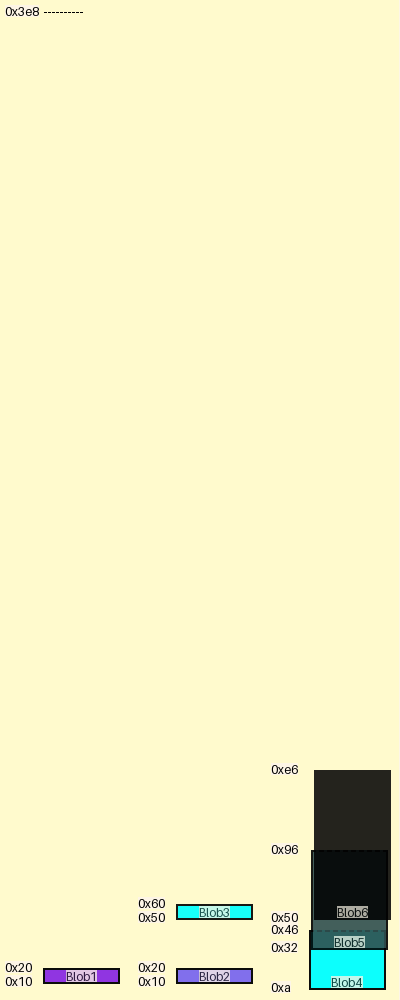
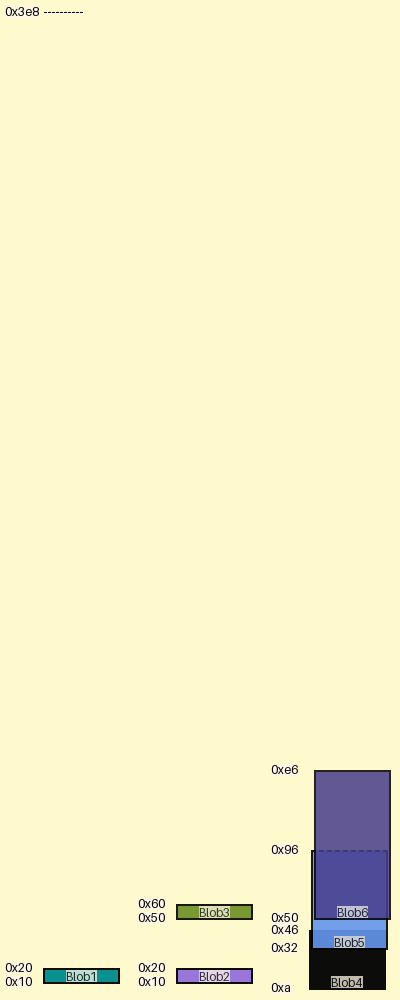
adjustred map name labels

Changed region(s): [[0.78, 0.775, 0.99, 0.992], [0.45, 0.899, 0.63, 0.93], [0.12, 0.961, 0.3, 0.992]]

diff --git a/tests/test_void_regions.py b/tests/test_void_regions.py
@@ -64,7 +64,7 @@ def test_void_region_default(setup):
 
         assert setup["image_cropped"].exists()
         found_size = PIL.Image.open(str(setup["image_cropped"])).size
-        assert found_size == (400, 540)
+        assert found_size == (400, 550)
 
 
 def test_void_region_uservalue_500(setup):
@@ -113,7 +113,7 @@ def test_void_region_uservalue_500(setup):
         # empty section between rootfs and dtb should be retained
         assert setup["image_cropped"].exists()
         found_size = PIL.Image.open(str(setup["image_cropped"])).size
-        assert found_size == (400, 540)
+        assert found_size == (400, 550)
 
 
 def test_void_region_uservalue_200(setup):
@@ -162,4 +162,4 @@ def test_void_region_uservalue_200(setup):
         # reduced void threshold, so empty section between rootfs and dtb should be voided, making the file smaller
         assert setup["image_cropped"].exists()
         found_size = PIL.Image.open(str(setup["image_cropped"])).size
-        assert found_size == (400, 328)
+        assert found_size == (400, 338)

diff --git a/mm/image.py b/mm/image.py
@@ -88,8 +88,8 @@ class MapNameImage(Image):
         txt_lbl =  TextLabelImage(text=self.name, font_size=font_size)
 
         generic_img = DashedRectangle(img_width, 
-                                      txt_lbl.img.height, 
-                                      fill="steelblue", 
+                                      txt_lbl.img.height + 10, 
+                                      fill="silver", 
                                       line="black", 
                                       dash=(8,0,8,0), 
                                       stroke=2).img
@@ -97,7 +97,7 @@ class MapNameImage(Image):
 
         # draw name text
         generic_img = txt_lbl.overlay(generic_img, 
-                                      ((img_width - txt_lbl.img.width) // 2, 2), 192)
+                                      ((img_width - txt_lbl.img.width) // 2, 5), 192)
 
         self.img = generic_img
 

diff --git a/tests/test_args.py b/tests/test_args.py
@@ -150,7 +150,7 @@ def test_default_limit_arg_format(setup):
 
         assert setup["image_cropped"].exists()
         outimg = PIL.Image.open(str(setup["image_cropped"]))
-        assert hex(outimg.size[1]) == "0x3f4"
+        assert hex(outimg.size[1]) == "0x3fe"
 
 
 def test_valid_2000_limit_arg_format(setup):
@@ -178,7 +178,7 @@ def test_valid_2000_limit_arg_format(setup):
 
         assert setup["image_cropped"].exists()
         outimg = PIL.Image.open(str(setup["image_cropped"]))
-        assert outimg.size[1] == 124
+        assert outimg.size[1] == 134
 
 def test_input_file():
 

diff --git a/tests/test_scaling.py b/tests/test_scaling.py
@@ -32,7 +32,7 @@ def test_scaling_x1(setup):
     """ """
     default_diagram_width = 400
     requested_diagram_height = 2000
-    expected_cropped_height = 284
+    expected_cropped_height = 294
     requested_scale = 1
 
     with unittest.mock.patch(
@@ -87,7 +87,7 @@ def test_scaling_x2(setup):
     """ """
     default_diagram_width = 400
     requested_diagram_height = 1000
-    expected_cropped_height = 284
+    expected_cropped_height = 294
     requested_scale = 2
 
     with unittest.mock.patch(

diff --git a/tests/test_docs.py b/tests/test_docs.py
@@ -68,7 +68,7 @@ def test_generate_doc_example_normal(setup):
         # reduced void threshold, so empty section between rootfs and dtb should be voided, making the file smaller
         assert setup["image_cropped"].exists()
         found_size = PIL.Image.open(str(setup["image_cropped"])).size
-        assert found_size == (400, 328)
+        assert found_size == (400, 338)
 
 
 @pytest.mark.parametrize("setup", [{"file_prefix": "_collisions"}], indirect=True)

diff --git a/doc/example/tests.test_docs_three_maps.md b/doc/example/tests.test_docs_three_maps.md
@@ -1,9 +1,9 @@
 ![memory map diagram](tests.test_docs_three_maps_cropped.png)
 |name|origin|size|free Space|collisions
 |:-|:-|:-|:-|:-|
-|<span style='color:black'>Blob6</span>|0x50|0x96|0x302|{'Blob5': '0x50'}|
-|<span style='color:cyan'>Blob3</span>|0x50|0x10|0x388|{}|
-|<span style='color:darkslategrey'>Blob5</span>|0x32|0x64|-0x46|{'Blob4': '0x32', 'Blob6': '0x50'}|
-|<span style='color:mediumslateblue'>Blob2</span>|0x10|0x10|0x30|{}|
-|<span style='color:blueviolet'>Blob1</span>|0x10|0x10|0x3c8|{}|
-|<span style='color:cyan'>Blob4</span>|0xa|0x3c|-0x14|{'Blob5': '0x32'}|
+|<span style='color:darkslateblue'>Blob6</span>|0x50|0x96|0x302|{'Blob5': '0x50'}|
+|<span style='color:olivedrab'>Blob3</span>|0x50|0x10|0x388|{}|
+|<span style='color:cornflowerblue'>Blob5</span>|0x32|0x64|-0x46|{'Blob4': '0x32', 'Blob6': '0x50'}|
+|<span style='color:mediumpurple'>Blob2</span>|0x10|0x10|0x30|{}|
+|<span style='color:darkcyan'>Blob1</span>|0x10|0x10|0x3c8|{}|
+|<span style='color:black'>Blob4</span>|0xa|0x3c|-0x14|{'Blob5': '0x32'}|

diff --git a/doc/example/tests.test_docs_two_maps.md b/doc/example/tests.test_docs_two_maps.md
@@ -1,8 +1,8 @@
 ![memory map diagram](tests.test_docs_two_maps_cropped.png)
 |name|origin|size|free Space|collisions
 |:-|:-|:-|:-|:-|
-|<span style='color:royalblue'>Blob4</span>|0x100|0x10|0x2d8|{}|
-|<span style='color:purple'>Blob3</span>|0x50|0x10|0x388|{}|
-|<span style='color:darkolivegreen'>Blob5</span>|0x30|0x10|0x10|{}|
-|<span style='color:dimgrey'>Blob1</span>|0x10|0x10|0xe0|{}|
-|<span style='color:blueviolet'>Blob2</span>|0x10|0x10|0x10|{}|
+|<span style='color:cornflowerblue'>Blob4</span>|0x100|0x10|0x2d8|{}|
+|<span style='color:aquamarine'>Blob3</span>|0x50|0x10|0x388|{}|
+|<span style='color:darkviolet'>Blob5</span>|0x30|0x10|0x10|{}|
+|<span style='color:mediumpurple'>Blob1</span>|0x10|0x10|0xe0|{}|
+|<span style='color:mediumblue'>Blob2</span>|0x10|0x10|0x10|{}|

diff --git a/doc/example/tests.test_docs_collisions.md b/doc/example/tests.test_docs_collisions.md
@@ -1,6 +1,6 @@
 ![memory map diagram](tests.test_docs_collisions_cropped.png)
 |name|origin|size|free Space|collisions
 |:-|:-|:-|:-|:-|
-|<span style='color:turquoise'>dtb</span>|0x90|0x30|0x328|{'rootfs': '0x90'}|
-|<span style='color:palegreen'>rootfs</span>|0x50|0x50|-0x10|{'kernel': '0x50', 'dtb': '0x90'}|
-|<span style='color:black'>kernel</span>|0x10|0x60|-0x20|{'rootfs': '0x50'}|
+|<span style='color:seagreen'>dtb</span>|0x90|0x30|0x328|{'rootfs': '0x90'}|
+|<span style='color:springgreen'>rootfs</span>|0x50|0x50|-0x10|{'kernel': '0x50', 'dtb': '0x90'}|
+|<span style='color:lime'>kernel</span>|0x10|0x60|-0x20|{'rootfs': '0x50'}|

diff --git a/doc/example/tests.test_docs_normal.md b/doc/example/tests.test_docs_normal.md
@@ -1,6 +1,6 @@
 ![memory map diagram](tests.test_docs_normal_cropped.png)
 |name|origin|size|free Space|collisions
 |:-|:-|:-|:-|:-|
-|<span style='color:blue'>dtb</span>|0x190|0x30|0x228|{}|
-|<span style='color:darkolivegreen'>rootfs</span>|0x50|0x30|0x110|{}|
-|<span style='color:darkturquoise'>kernel</span>|0x10|0x30|0x10|{}|
+|<span style='color:mediumslateblue'>dtb</span>|0x190|0x30|0x228|{}|
+|<span style='color:darkslategrey'>rootfs</span>|0x50|0x30|0x110|{}|
+|<span style='color:springgreen'>kernel</span>|0x10|0x30|0x10|{}|
